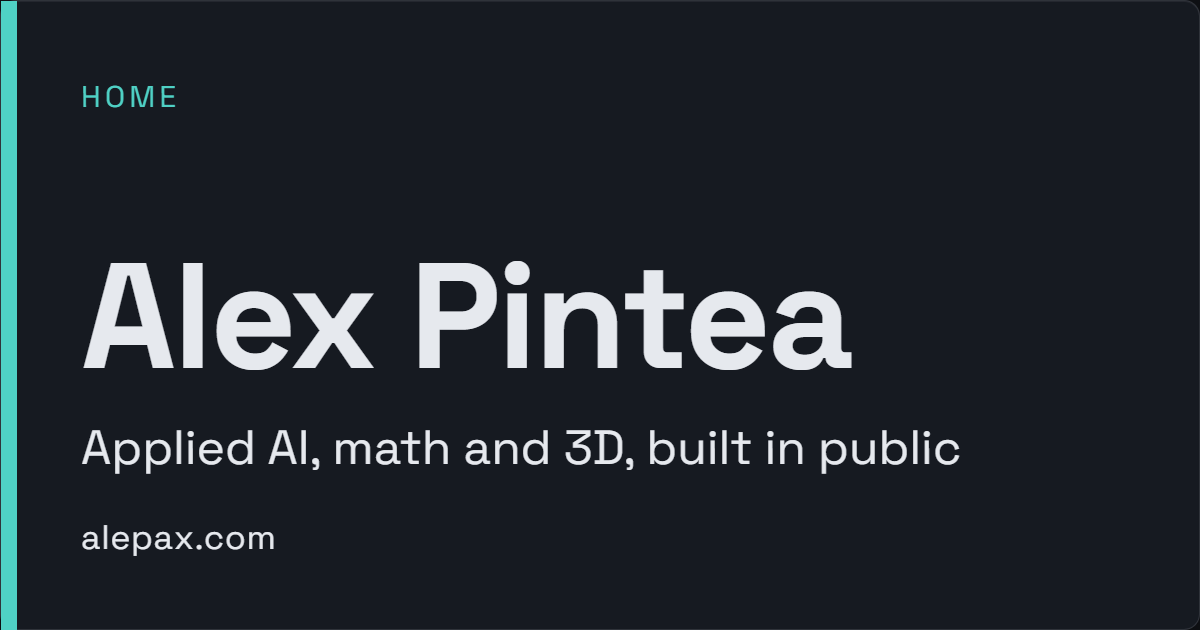
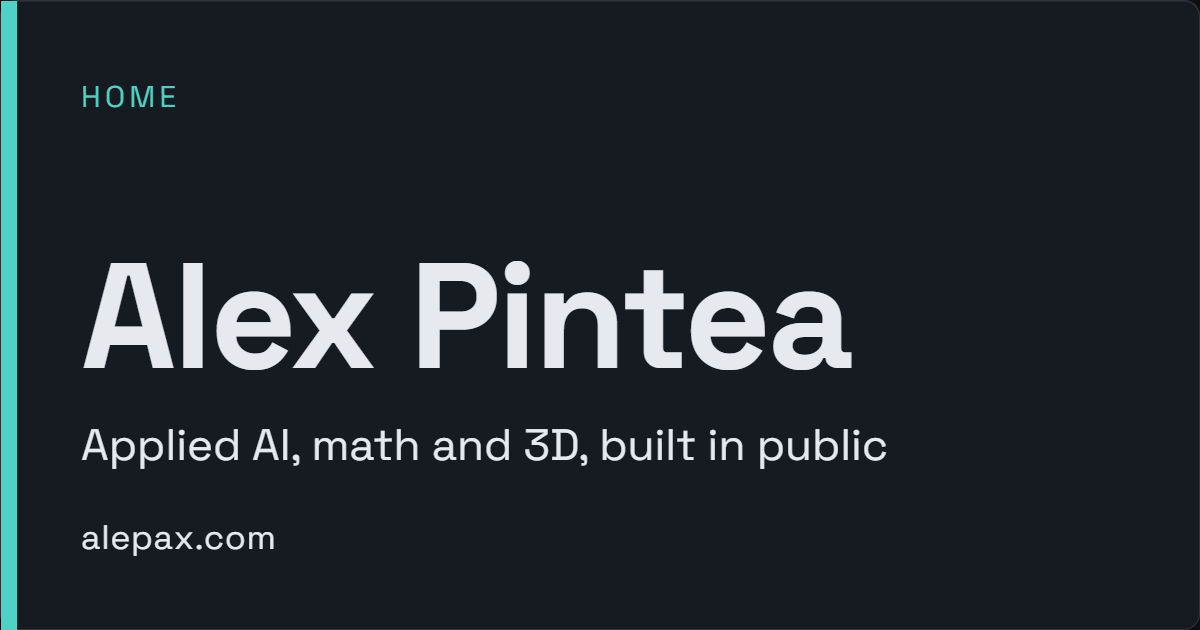
feat(og): update about subtitle, drop its duplicate kicker

Changed region(s): [[0.0617, 0.6635, 0.8017, 0.754]]

diff --git a/assets/og/template.html b/assets/og/template.html
@@ -10,7 +10,7 @@
 	.bar { position: absolute; left: 0; top: 0; width: 16px; height: 630px; background: var(--accent); }
 	.kicker { margin: 0; font-size: 30px; letter-spacing: 0.14em; text-transform: uppercase; color: var(--accent); }
 	.name { margin: 120px 0 0; font-size: 150px; line-height: 1; font-weight: 700; letter-spacing: -0.02em; }
-	.title { margin: 28px 0 0; font-size: 48px; line-height: 1.2; white-space: nowrap; overflow: hidden; text-overflow: ellipsis; }
+	.title { margin: 28px 0 0; font-size: 44px; line-height: 1.2; max-width: 1040px; }
 	.mark { position: absolute; left: 80px; bottom: 64px; font-size: 34px; letter-spacing: 0.02em; }
 </style>
 </head>
@@ -24,7 +24,9 @@
 </div>
 <script>
 	var q = new URLSearchParams(location.search);
-	document.getElementById('kicker').textContent = q.get('type') || '';
+	var k = document.getElementById('kicker');
+	k.textContent = q.get('type') || '';
+	if (q.get('kicker') === '0') k.style.visibility = 'hidden'; // keeps the layout identical across images
 	document.getElementById('title').textContent = q.get('title') || '';
 </script>
 </body>
